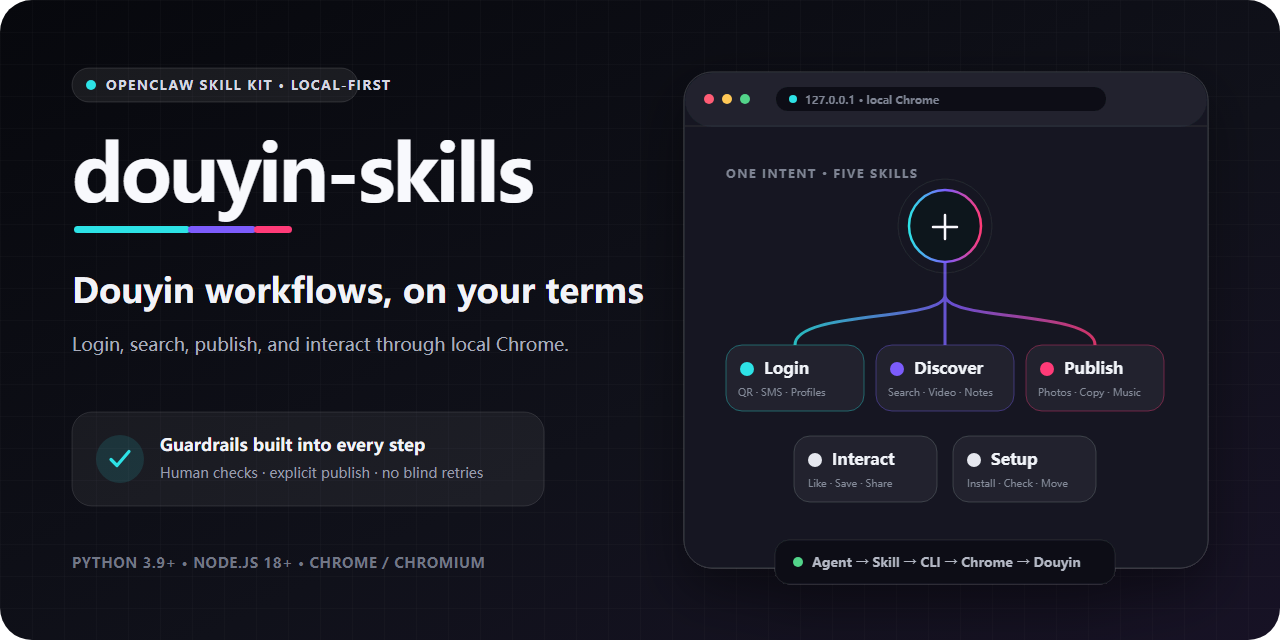
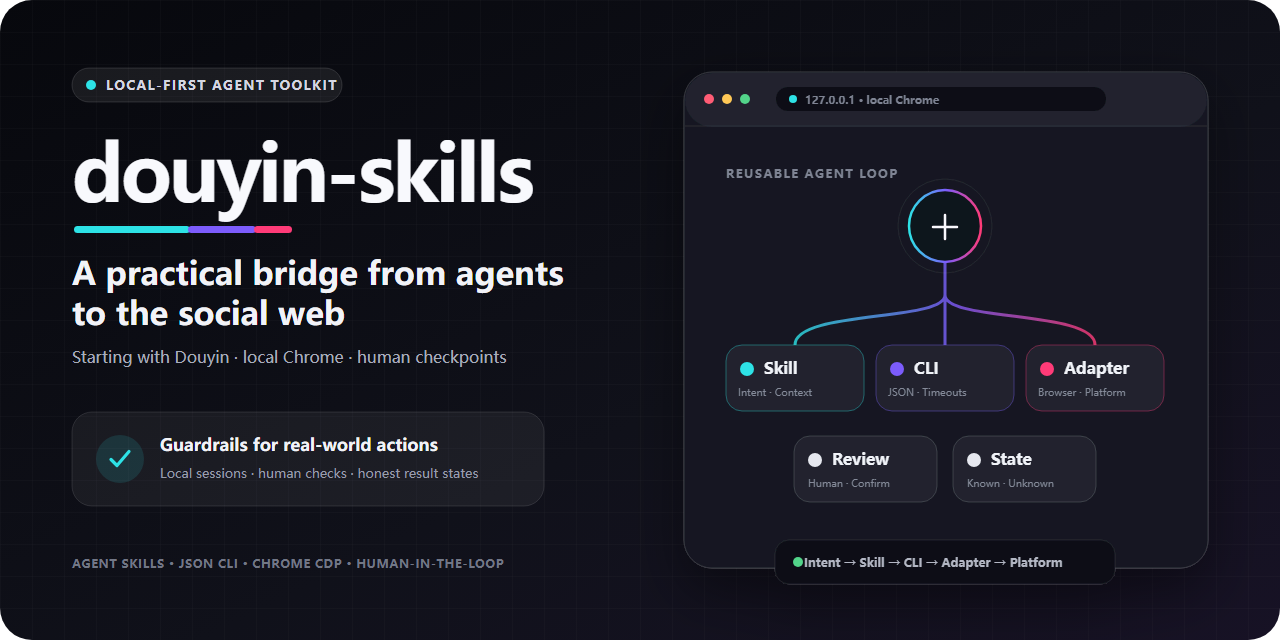
docs: position project for the agent ecosystem

diff --git a/README.md b/README.md
@@ -1,28 +1,36 @@
-<p align="right"><a href="./README.zh-CN.md">简体中文</a></p>
+<p align="right"><a href="./README.zh-CN.md">中文</a></p>
 
 <p align="center">
-  <img src="./assets/hero.svg" alt="douyin-skills: delegate everyday Douyin tasks to your agent" width="100%">
+  <img src="./assets/hero-agent.svg" alt="douyin-skills: a local-first bridge from agents to the social web" width="100%">
 </p>
 
 <h1 align="center">douyin-skills</h1>
 
 <p align="center">
-  Control your local Chrome with natural language for Douyin login, discovery, photo publishing, and basic interactions.
+  Local-first agent workflows for the social web—starting with Douyin.
 </p>
 
 <p align="center">
   <a href="https://github.com/zJay26/douyin-skills/actions/workflows/ci.yml"><img src="https://img.shields.io/github/actions/workflow/status/zJay26/douyin-skills/ci.yml?branch=main&style=flat-square&label=CI" alt="CI"></a>
   <a href="https://github.com/zJay26/douyin-skills/stargazers"><img src="https://img.shields.io/github/stars/zJay26/douyin-skills?style=flat-square" alt="GitHub Stars"></a>
   <a href="./LICENSE"><img src="https://img.shields.io/github/license/zJay26/douyin-skills?style=flat-square" alt="MIT License"></a>
-  <img src="https://img.shields.io/badge/Python-3.9%2B-3776AB?style=flat-square&logo=python&logoColor=white" alt="Python 3.9+">
-  <img src="https://img.shields.io/badge/Node.js-18%2B-339933?style=flat-square&logo=node.js&logoColor=white" alt="Node.js 18+">
-  <a href="https://docs.openclaw.ai/skills"><img src="https://img.shields.io/badge/OpenClaw-Skill-7C5CFC?style=flat-square" alt="OpenClaw Skill"></a>
+  <a href="https://agentskills.io"><img src="https://img.shields.io/badge/Agent_Skills-open_format-2A9DAB?style=flat-square" alt="Agent Skills open format"></a>
+  <a href="https://docs.openclaw.ai/skills"><img src="https://img.shields.io/badge/OpenClaw-ready-7C5CFC?style=flat-square" alt="OpenClaw ready"></a>
+  <img src="https://img.shields.io/badge/execution-local--first-FF3B78?style=flat-square" alt="Local-first execution">
 </p>
 
 > [!IMPORTANT]
-> This is a local, human-in-the-loop web automation toolkit—not an official Douyin product. Only use accounts and content you are authorized to operate. Users must complete captchas and risk checks themselves; this project does not provide bulk engagement or platform-control bypasses.
+> This repository implements Douyin workflows today. Support for other Agent clients and social platforms is a direction, not a shipped compatibility claim. It is not an official Douyin product, and it does not provide bulk engagement or platform-control bypasses.
 
-## Why use it?
+## Why this project exists
+
+Agents can plan a multi-step task, but the social web is where plans meet stateful logins, changing pages, risk checks, and buttons with real consequences. A publishing click cannot be treated like a harmless text-generation step, and an uncertain result should not be reported as success.
+
+`douyin-skills` is a concrete attempt to make that boundary easier to inspect and reuse. It packages intent as versioned Skills, exposes browser actions through a structured JSON CLI, keeps account sessions in local Chrome, and stops for human review when the page or outcome is uncertain.
+
+Douyin is the current proving ground: a major social platform with real creator workflows and enough operational friction to test whether an agent integration is actually dependable. The project is intentionally narrower than a social-media management suite; it focuses on small, verifiable actions that can become reliable building blocks.
+
+## What works today
 
 Everyday Douyin web tasks are not inherently complicated, but browser startup, login state, page transitions, and publish review can interrupt your flow. `douyin-skills` turns those steps into five composable Skills: your agent understands the intent, then acts through Chrome on your computer.
 
@@ -37,6 +45,7 @@ Everyday Douyin web tasks are not inherently complicated, but browser startup, l
 What makes it different:
 
 - **Built for everyday users**: install it, then describe the task instead of learning CDP or selectors.
+- **Agent-readable contract**: Skill instructions and JSON results make the workflow reviewable instead of hiding behavior in prompts.
 - **Local-first**: Chrome and account profiles stay on your computer; the debug endpoint only listens on `127.0.0.1`.
 - **Fails safely**: publishing requires validation and explicit confirmation; risk pages and uncertain outcomes stop for human review.
 - **Composable**: authentication, environment, discovery, publishing, and interactions work independently or as a workflow.
@@ -44,7 +53,7 @@ What makes it different:
 
 ## Start in three minutes
 
-### Option 1: Install from Git with OpenClaw (recommended)
+### OpenClaw: full bundled experience (recommended)
 
 ```bash
 openclaw skills install git:zJay26/douyin-skills@main
@@ -54,9 +63,9 @@ Then tell your agent:
 
 > Use `douyin-env` to install dependencies and run the environment checks.
 
-This installation command and Skill discovery model follow the [official OpenClaw documentation](https://docs.openclaw.ai/skills).
+This installation command and nested Skill discovery model follow the [official OpenClaw documentation](https://docs.openclaw.ai/skills).
 
-### Option 2: Install manually
+### Manual runtime setup
 
 ```bash
 git clone https://github.com/zJay26/douyin-skills.git
@@ -91,6 +100,49 @@ The environment is ready when the JSON from `doctor` contains `"success": true` 
 
 The first login creates an isolated local Chrome profile. If Douyin later presents a captcha, identity check, or risk page, the CLI switches to a visible browser and waits for you to complete it manually.
 
+## Why this matters to the Agent ecosystem
+
+The larger contribution is not a claim that one repository has solved every social platform. It is a working separation between what an agent decides and what a real browser is allowed to do.
+
+| Layer | What this repository demonstrates | What may transfer |
+| --- | --- | --- |
+| Skill contract | Versioned intent, steps, guardrails, and failure handling in `SKILL.md` | Any client that understands the open Agent Skills format |
+| Execution contract | Explicit arguments and structured JSON results | Other agent or tool surfaces can wrap the same stable CLI boundary |
+| Local session | Isolated Chrome profiles and loopback-only CDP | Workflows where users must stay signed in without exporting sessions |
+| Human checkpoint | Visible-browser verification and explicit publish confirmation | Other risk-sensitive or irreversible web actions |
+| Result semantics | Confirmed, failed, and clicked-but-unconfirmed are different states | Agents can avoid confident but false completion reports |
+| Platform adapter | Douyin URLs, selectors, and creator flows live behind shared runtime pieces | A future platform can replace its adapter without discarding every guardrail |
+
+The root [`SKILL.md`](./SKILL.md) follows the open [Agent Skills specification](https://agentskills.io/specification), which is designed for portable, version-controlled agent knowledge. OpenClaw follows that specification and currently provides the documented installation path for this repository. Execution on other Agent Skills clients is not part of CI yet, so treat cross-client use as integration work rather than plug-and-play support.
+
+This distinction matters: the repository offers a reusable pattern today, not a universal compatibility badge.
+
+### Who may find the pattern useful
+
+- **Operators** who want useful automation without handing browser sessions to a hosted control service.
+- **Agent builders** looking for a concrete contract between model intent and stateful browser actions.
+- **Tool and client maintainers** exploring how Agent Skills, CLIs, or tool protocols can share one execution core.
+- **Researchers and reviewers** interested in human checkpoints, uncertainty, and honest completion semantics.
+
+## Starting with Douyin, not ending there
+
+The current implementation is specific to Douyin. Its URLs, selectors, login pages, creator forms, and content types must not be presented as portable code. The surrounding architecture is more general:
+
+```mermaid
+flowchart LR
+    A["User intent"] --> B["Agent Skill"]
+    B --> C["Structured JSON CLI"]
+    C --> D["Local browser runtime"]
+    D --> E["Human checkpoint"]
+    D --> F["Platform adapter"]
+    F --> G["Douyin · implemented today"]
+    F -. "future adapter work" .-> H["Other social / creator platforms"]
+```
+
+A future adapter for another social or creator platform could reuse the Skill-to-CLI boundary, browser lifecycle, local profiles, timeouts, validation states, and human-review policy. It would still need its own authorized login flow, URLs, selectors, domain rules, tests, and platform-policy review.
+
+No other platform adapter ships in this repository today. See the [Agent ecosystem design note](./docs/AGENT_ECOSYSTEM.md) for the portability boundary and [ROADMAP.md](./ROADMAP.md) for the staged plan.
+
 ## Five composable Skills
 
 | Skill | Responsibility | Example intent |
@@ -123,7 +175,7 @@ The root [`SKILL.md`](./SKILL.md) routes multi-step requests. Child Skills addre
 > [!WARNING]
 > Web interfaces change and automation may be restricted by the platform. Use a reasonable frequency and verify important actions on the actual page. You remain responsible for applicable law, platform rules, and content permissions.
 
-## Architecture
+## Implementation architecture
 
 ```mermaid
 flowchart LR
@@ -141,6 +193,7 @@ flowchart LR
 - The Chrome launcher handles cross-platform browser discovery, port checks, profile isolation, and headless/headed transitions.
 - The CDP bridge drives pages through timeout-bounded HTTP/WebSocket calls without exposing the debug port to LAN or public networks.
 - Page logic is split into authentication, discovery, publishing, and interaction modules, with shared URL, wait, and error handling.
+- The platform-facing code is not generic yet; the [ecosystem design note](./docs/AGENT_ECOSYSTEM.md) identifies the boundary that should be extracted before another adapter is attempted.
 
 ## Requirements
 
@@ -221,6 +274,8 @@ The default data directory is `~/.douyin-skills/`; set `DOUYIN_SKILLS_HOME` to u
 │   └── douyin/               # Auth, discovery, publish, interaction modules
 ├── tests/                    # Python unit tests and Node.js bridge test
 ├── assets/                   # README and social-preview artwork
+├── docs/                     # Agent ecosystem and adapter design notes
+├── ROADMAP.md                # Evidence-led project direction
 └── .github/                  # CI, dependency updates, collaboration templates
 ```
 
@@ -240,7 +295,7 @@ ruff format --check scripts tests/python
 
 CI tests Windows (Python 3.13 / Node.js 24) and Ubuntu (Python 3.9 / Node.js 18), with a separate Ruff check. CI does not perform real account login, captcha, or publishing; those end-to-end outcomes still depend on the account, page version, and platform policy at that moment.
 
-Read [CONTRIBUTING.md](./CONTRIBUTING.md) before sending changes. Report security problems privately through [SECURITY.md](./SECURITY.md), and never paste account or session data into a public issue.
+Read [CONTRIBUTING.md](./CONTRIBUTING.md) before sending changes. Use [GitHub Discussions](https://github.com/zJay26/douyin-skills/discussions) for open-ended workflow and adapter ideas, and Issues for reproducible defects or scoped work. Report security problems privately through [SECURITY.md](./SECURITY.md), and never paste account or session data into a public issue.
 
 ## FAQ
 
@@ -270,10 +325,10 @@ No. The project intentionally focuses on small, clear local workflows: login, di
 
 ## Contributing, license, and trademarks
 
-Focused, tested contributions that preserve the safety model are welcome. Start with [CONTRIBUTING.md](./CONTRIBUTING.md).
+Focused, tested contributions that preserve the safety model are welcome. Useful starting points include reproducible page-compatibility reports, selector fixtures, clearer result semantics, documentation for another Agent Skills client, and design work toward a clean platform-adapter boundary. Start with [CONTRIBUTING.md](./CONTRIBUTING.md) and the [roadmap](./ROADMAP.md).
 
 This project is available under the [MIT License](./LICENSE). `douyin-skills` is not affiliated with, authorized by, or officially connected to Douyin, ByteDance, or OpenClaw. Product names are used only to identify compatibility.
 
 <p align="center">
-  If this makes your workflow easier, consider leaving a Star so more people can discover local, controllable automation.
+  If you use it, tell us which workflow helped—or where it failed. Real usage reports are more valuable than broad compatibility claims.
 </p>

diff --git a/docs/AGENT_ECOSYSTEM.md b/docs/AGENT_ECOSYSTEM.md
@@ -1,0 +1,90 @@
+# douyin-skills in the Agent ecosystem
+
+`douyin-skills` is a working Douyin integration and a design experiment in how agents can operate stateful, risk-sensitive websites without hiding every decision inside a prompt.
+
+The project does not claim universal client or platform compatibility. Its useful contribution is the boundary it makes visible:
+
+```text
+intent → Skill contract → structured CLI → local browser runtime → platform adapter
+                                      ↘ human checkpoint ↗
+```
+
+## Compatibility status
+
+| Surface | Current status | Evidence and limit |
+| --- | --- | --- |
+| Douyin Web / Creator Center | Implemented | Login, discovery, photo publishing, and one-at-a-time basic interactions have code and focused tests; live pages can still drift |
+| OpenClaw | Primary packaged experience | Repository installation and nested Skill discovery are documented; a full OpenClaw end-to-end run is not part of CI |
+| Agent Skills format | Root Skill uses the open format | `SKILL.md` has the required metadata and versioned instructions; execution has not been certified across every compatible client |
+| Other Agent clients | Integration direction | The JSON CLI is callable, but client-specific installation, permissions, and UX need separate validation |
+| Other social platforms | Architecture direction | No additional platform adapter is implemented or advertised as supported |
+
+## Why the social web is a useful proving ground
+
+Social and creator platforms combine several problems that simple tool demos often avoid:
+
+- authentication is stateful and may require a user-visible browser;
+- page structure and risk controls change independently of the integration;
+- some actions are irreversible or costly to repeat;
+- a click is not the same as a confirmed outcome;
+- session data should not be casually moved into a hosted automation service;
+- platform rules and account authorization remain part of the system boundary.
+
+A dependable agent integration therefore needs more than a page selector. It needs a contract for prerequisites, user authority, failure states, human intervention, and result reporting.
+
+## What is reusable
+
+### 1. Skill contract
+
+The Skill layer describes when a capability applies, which commands are allowed, what must be checked first, and when the agent must stop. Because this knowledge is version-controlled, reviewers can inspect changes to behavior separately from changes to model prompts.
+
+### 2. Structured execution
+
+The public Python CLI accepts explicit arguments and returns JSON. That boundary can be called by a Skill-aware client today and could be wrapped by another tool protocol later without duplicating browser logic. There is no MCP server or universal tool adapter in the repository today.
+
+### 3. Local browser lifecycle
+
+Chrome discovery, loopback-only CDP, profile isolation, timeouts, and headless-to-headed transitions are shared runtime concerns. These pieces are more portable than any one platform's selectors.
+
+### 4. Human checkpoints
+
+Captcha, identity checks, and uncertain publish states are modeled as reasons to stop—not invitations to improvise a bypass. The same policy can apply to other sensitive web actions.
+
+### 5. Honest result states
+
+The integration distinguishes confirmed success, failure before action, and an action whose final state could not be verified. This is a small design choice with large consequences for agent reliability.
+
+## What remains platform-specific
+
+Any future adapter must own and test its own:
+
+- public URL and content-reference parsing;
+- login markers, verification pages, and session checks;
+- search, detail, publishing, and interaction selectors;
+- result-confirmation signals;
+- content types, limits, and platform policy constraints;
+- manual end-to-end validation protocol.
+
+Reusing the runtime must never mean copying Douyin selectors into another platform and declaring compatibility.
+
+## A reasonable second-adapter gate
+
+The project should attempt another social or creator platform only after:
+
+1. the shared result schema is documented and stable;
+2. Douyin selectors have fixture-based regression coverage;
+3. the adapter boundary can be isolated without changing the optimizer or safety policy of every command;
+4. one non-OpenClaw Agent Skills client has a documented smoke test;
+5. maintainers can run an authorized manual validation flow for the new platform.
+
+Until those conditions are met, cross-platform support belongs in the roadmap rather than the feature list.
+
+## Ways to contribute
+
+- report a reproducible page change with a sanitized DOM clue or screenshot;
+- improve result-state semantics and tests;
+- document a verified installation on another Agent Skills client;
+- propose an adapter interface without adding speculative platform code;
+- share a real workflow that reveals a missing guardrail.
+
+Use [GitHub Discussions](https://github.com/zJay26/douyin-skills/discussions) for open-ended ideas and [Issues](https://github.com/zJay26/douyin-skills/issues) for scoped, reproducible work.

diff --git a/ROADMAP.md b/ROADMAP.md
@@ -1,0 +1,58 @@
+# Roadmap
+
+This roadmap separates implemented behavior from evidence we still need. Dates are intentionally omitted: reliability gates matter more than optimistic deadlines.
+
+## Principles
+
+- Keep account sessions and browser control local by default.
+- Treat human verification as a supported state, not a failure to bypass.
+- Separate confirmed outcomes from clicks and assumptions.
+- Stabilize the shared contract before adding another platform.
+- Prefer real fixtures, tests, and manual validation notes over broad compatibility badges.
+
+## Current baseline
+
+- [x] Five composable Douyin Skills for environment, authentication, discovery, photo publishing, and basic interactions
+- [x] Structured JSON CLI and loopback-only Chrome CDP runtime
+- [x] Named local profiles and default-account handling
+- [x] Explicit publish validation and confirmation
+- [x] Unit tests on Windows and Ubuntu CI
+- [x] English-first repository documentation with a complete Chinese guide
+
+The baseline does **not** prove arbitrary page-version compatibility or authenticated publishing on every account.
+
+## Next: strengthen the Douyin foundation
+
+- [ ] Add sanitized selector and page-state fixtures for login, risk, search, detail, and publishing flows
+- [ ] Publish a repeatable manual validation checklist with Chrome and page-version notes
+- [ ] Add a synthetic, privacy-safe demo of the end-to-end agent workflow
+- [ ] Define a release and changelog cadence so users can distinguish stable behavior from ongoing work
+- [ ] Turn common page-drift reports into focused regression tests
+
+## Then: extract the reusable contract
+
+- [ ] Document a stable cross-command result envelope for confirmed, failed, blocked, and unconfirmed outcomes
+- [ ] Isolate platform URLs, selectors, and page flows behind an explicit adapter boundary
+- [ ] Keep browser lifecycle, profiles, timeouts, and human checkpoints platform-neutral
+- [ ] Add an integration smoke test for at least one Agent Skills client beyond the primary OpenClaw path
+- [ ] Evaluate additional tool surfaces only when they can reuse the same execution core
+
+## Later: evidence-led ecosystem expansion
+
+- [ ] Publish a small adapter-authoring guide with safety and validation requirements
+- [ ] Evaluate one additional social or creator platform with an authorized manual test environment
+- [ ] Add that adapter only if it can preserve local execution, explicit authority, and honest result states
+- [ ] Compare client and platform integrations using the same fixtures and reporting vocabulary
+
+No additional platform is selected or promised today.
+
+## Not on the roadmap
+
+- captcha, identity-check, or risk-control bypasses;
+- account farming, engagement inflation, or spam-oriented bulk actions;
+- silent retries of irreversible actions;
+- claims of compatibility without a repeatable validation path.
+
+## Community input
+
+Use [Discussions](https://github.com/zJay26/douyin-skills/discussions) for workflow ideas, client-integration notes, and platform-adapter proposals. Use [Issues](https://github.com/zJay26/douyin-skills/issues) when the work is scoped and testable.
